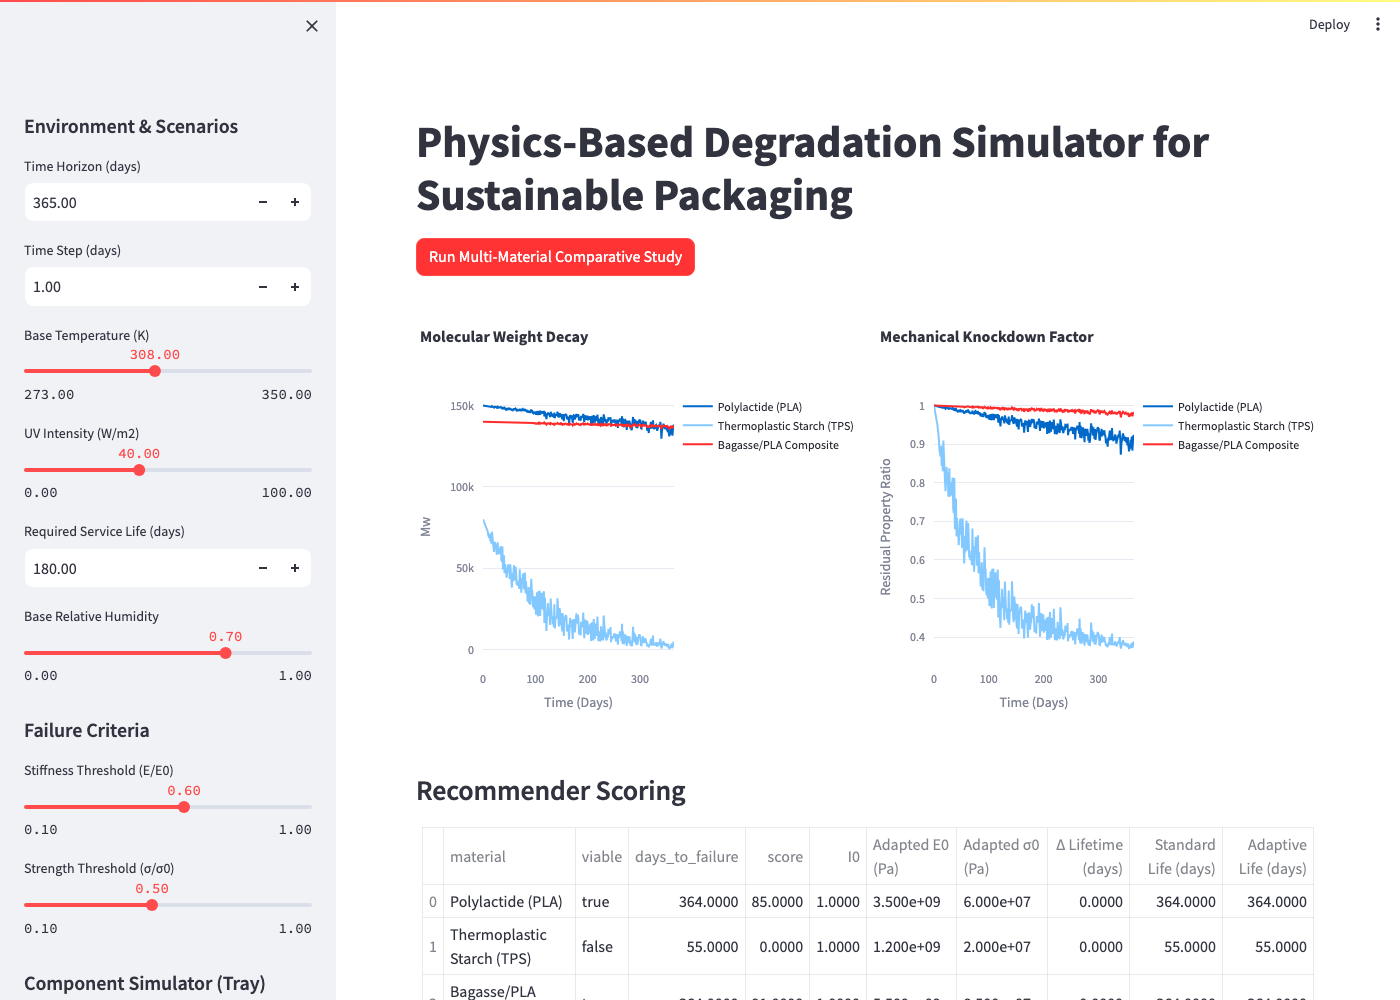
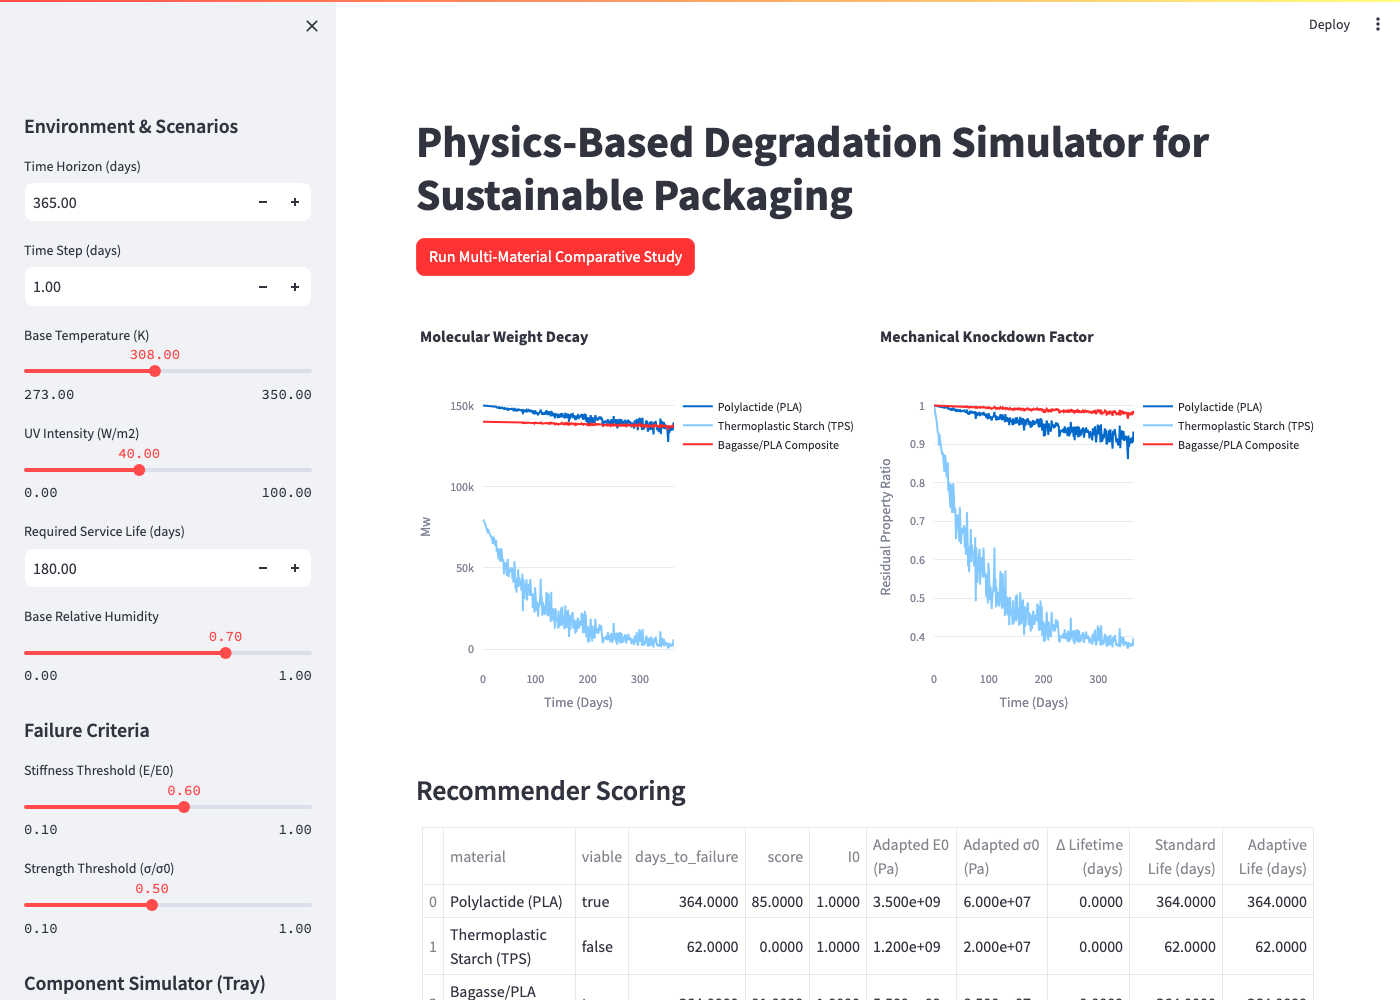
chore: sync final high-res screenshots and updated scripts

diff --git a/take_screenshots.py b/take_screenshots.py
@@ -19,18 +19,33 @@ async def main():
         print("Running simulation...")
         await page.locator("button", has_text="Run Multi-Material Comparative Study").click()
         
-        # Wait for the results to load (wait for the Recommender Scoring subheader)
         try:
             await page.wait_for_selector("text=Recommender Scoring", timeout=15000)
             await page.wait_for_timeout(3000) # Wait for Plotly charts to finish rendering
             print("Taking results screenshot...")
             await page.screenshot(path="dashboard_results.png", full_page=True)
+            
+            # Scroll to 3D Geometric Analysis and screenshot it
+            print("Taking 3D Geometry screenshot...")
+            await page.evaluate("window.scrollTo(0, document.body.scrollHeight / 2)")
+            await page.wait_for_timeout(2000)
+            await page.screenshot(path="dashboard_3d_geometry.png")
+            
+            # Click "Compute 3D Volume" and take screenshot of the volume rendering
+            print("Computing 3D Volume...")
+            await page.locator("button", has_text="Compute 3D Volume").click()
+            await page.wait_for_timeout(5000) # Wait for PDE solver and Plotly 3D rendering
+            await page.evaluate("window.scrollTo(0, document.body.scrollHeight)")
+            await page.wait_for_timeout(2000)
+            print("Taking 3D Volume screenshot...")
+            await page.screenshot(path="dashboard_3d_volume.png")
+            
         except Exception as e:
             print("Failed to wait for results:", e)
             await page.screenshot(path="dashboard_results_error.png", full_page=True)
             
         await browser.close()
-        print("Screenshots saved: dashboard_main.png, dashboard_results.png")
+        print("Screenshots saved: dashboard_main.png, dashboard_results.png, dashboard_3d_geometry.png, dashboard_3d_volume.png")
 
 if __name__ == "__main__":
     asyncio.run(main())
